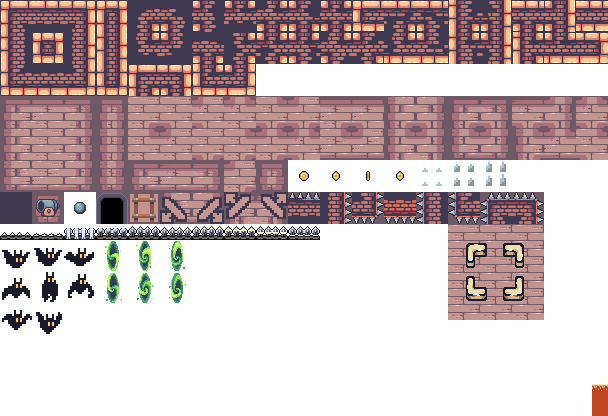
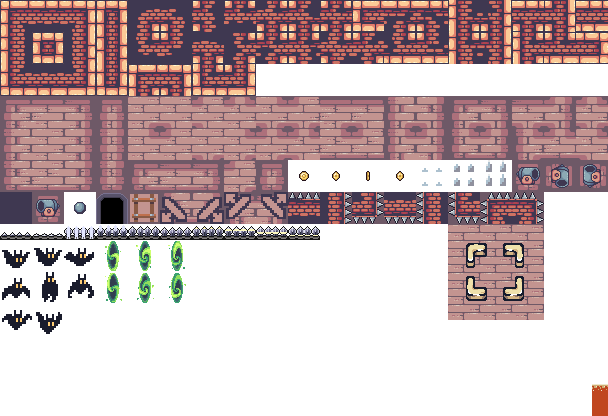
update map lvl 3

Changed region(s): [[0.8438, 0.375, 1.0, 0.4688]]

diff --git a/Game.cpp b/Game.cpp
@@ -17,7 +17,7 @@ TextManager* text;
 Map* map;
 Player* player;
 Bat* bat[20];
-Bomb* bomb;
+Bomb* bomb[14];
 Peak* peak;
 Trap* trap[59];
 SDL_Rect camera;
@@ -220,6 +220,9 @@ void Game::renderGame(){
         }
         break;
     case LEVEL3:
+        map->DrawMap(camera);
+        player->Render();
+        for (int i = 0; i < 14; i++) bomb[i]->Render(player->xpos, player->ypos);
         break;
     case LEVEL4:
         break;
@@ -286,7 +289,7 @@ void Game::enterState(State id){
         Mix_FadeOutMusic(500);
         currentLevel = 2;
         map = new Map(currentLevel);
-        player = new Player("Assets/Character/spider.png",34,65); // 42 97
+        player = new Player("Assets/Character/spider.png",42,97);
         camera = {player->xpos-480, player->ypos-320, 992, 672};
         bat[0] = new Bat (32,96,1);
         bat[1] = new Bat (28,94,1);
@@ -369,6 +372,25 @@ void Game::enterState(State id){
         trap[58] = new Trap (43,63,4);
         break;
     case LEVEL3:
+        Mix_FadeOutMusic(500);
+        currentLevel = 3;
+        map = new Map(currentLevel);
+        player = new Player("Assets/Character/spider.png",30,33); // 52 60
+        camera = {player->xpos-480, player->ypos-320, 992, 672};
+        bomb[0] = new Bomb (54,23,2);
+        bomb[1] = new Bomb (53,15,3);
+        bomb[2] = new Bomb (47,19,3);
+        bomb[3] = new Bomb (45,15,2);
+        bomb[4] = new Bomb (44,25,3);
+        bomb[5] = new Bomb (37,22,3);
+        bomb[6] = new Bomb (33,32,2);
+        bomb[7] = new Bomb (32,29,4);
+        bomb[8] = new Bomb (30,24,2);
+        bomb[9] = new Bomb (30,14,4);
+        bomb[10] = new Bomb (29,14,4);
+        bomb[11] = new Bomb (27,33,2);
+        bomb[12] = new Bomb (19,30,3);
+        bomb[13] = new Bomb (34,12,3);
         break;
     case LEVEL4:
         break;
@@ -414,16 +436,14 @@ void Game::exitState(State id){
         Mix_FadeInMusic(gMusic,-1,500);
         map = nullptr;
         player = nullptr;
-        for (int i = 0; i < 20; i++)
-        {
-            bat[i] = nullptr;
-        }
-        for (int i = 0; i < 59; i++)
-        {
-            trap[i] = nullptr;
-        }
+        for (int i = 0; i < 20; i++) bat[i] = nullptr;
+        for (int i = 0; i < 59; i++) trap[i] = nullptr;
         break;
     case LEVEL3:
+        Mix_FadeInMusic(gMusic,-1,500);
+        map = nullptr;
+        player = nullptr;
+        for (int i = 0; i < 14; i++) bomb[i] = nullptr;
         break;
     case LEVEL4:
         break;
@@ -473,7 +493,7 @@ void Game::updateGame(int x){
         }
         break;
     case LEVEL2:
-                player->Update(camera, player->xpos, player->ypos);
+        player->Update(camera, player->xpos, player->ypos);
         if(!x)
         {
             for (int i = 0; i < 20; i++) bat[i]->Update(map);
@@ -508,6 +528,19 @@ void Game::updateGame(int x){
         }
         break;
     case LEVEL3:
+        player->Update(camera, player->xpos, player->ypos);
+        if(!x)
+        {
+            for (int i = 0; i < 14; i++) bomb[i]->Update(map);
+        }
+        for (int i = 0; i < 14; i++)
+        {
+            if(player->Collision(bomb[i]->hitbox))
+            {
+//                isLose = true;
+                break;
+            }
+        }
         break;
     case LEVEL4:
         break;

diff --git a/Bomb.cpp b/Bomb.cpp
@@ -17,8 +17,8 @@ void Bomb::Update(Map* map)
 {
     if(typeBomb == 1) // right //
     {
-        xBomb += 4;
-        if(map->curr_map[yBomb/32][(xBomb+4)/32] <= 46)
+        xBomb += 1;
+        if(map->curr_map[yBomb/32][(xBomb+1)/32] <= 46)
         {
             xBomb = xStart;
             yBomb = yStart;
@@ -27,32 +27,32 @@ void Bomb::Update(Map* map)
     }
     if(typeBomb == 2) // left //
     {
-        if(map->curr_map[yBomb/32][(xBomb-4)/32] <= 46)
+        if(map->curr_map[yBomb/32][(xBomb-1)/32] <= 46)
         {
             xBomb = xStart;
             yBomb = yStart;
         }
-        xBomb -= 4;
+        xBomb -= 1;
         hitbox.x = xBomb;
     }
     if(typeBomb == 3) // down //
     {
-        if(map->curr_map[(yBomb+4)/32][xBomb/32] <= 46)
+        if(map->curr_map[(yBomb+1)/32][xBomb/32] <= 46)
         {
             xBomb = xStart;
             yBomb = yStart;
         }
-        yBomb += 4;
+        yBomb += 1;
         hitbox.y = yBomb;
     }
     if(typeBomb == 4) // up //
     {
-        if(map->curr_map[(yBomb-4)/32][xBomb/32] <= 46)
+        if(map->curr_map[(yBomb-1)/32][xBomb/32] <= 46)
         {
             xBomb = xStart;
             yBomb = yStart;
         }
-        yBomb -= 4;
+        yBomb -= 1;
         hitbox.y = yBomb;
     }
 }

diff --git a/Map.cpp b/Map.cpp
@@ -17,7 +17,7 @@ void Map::LoadMap(int level)
     int width, height;
     if (level == 1) {width = 53; height = 73;}
     if (level == 2) {width = 66; height = 110;}
-    if (level == 3) {width = 50; height = 50;}
+    if (level == 3) {width = 80; height = 73;}
     if (level == 4) {width = 50; height = 50;}
     if (level == 5) {width = 50; height = 50;}
     if (level == 6) {width = 50; height = 50;}
